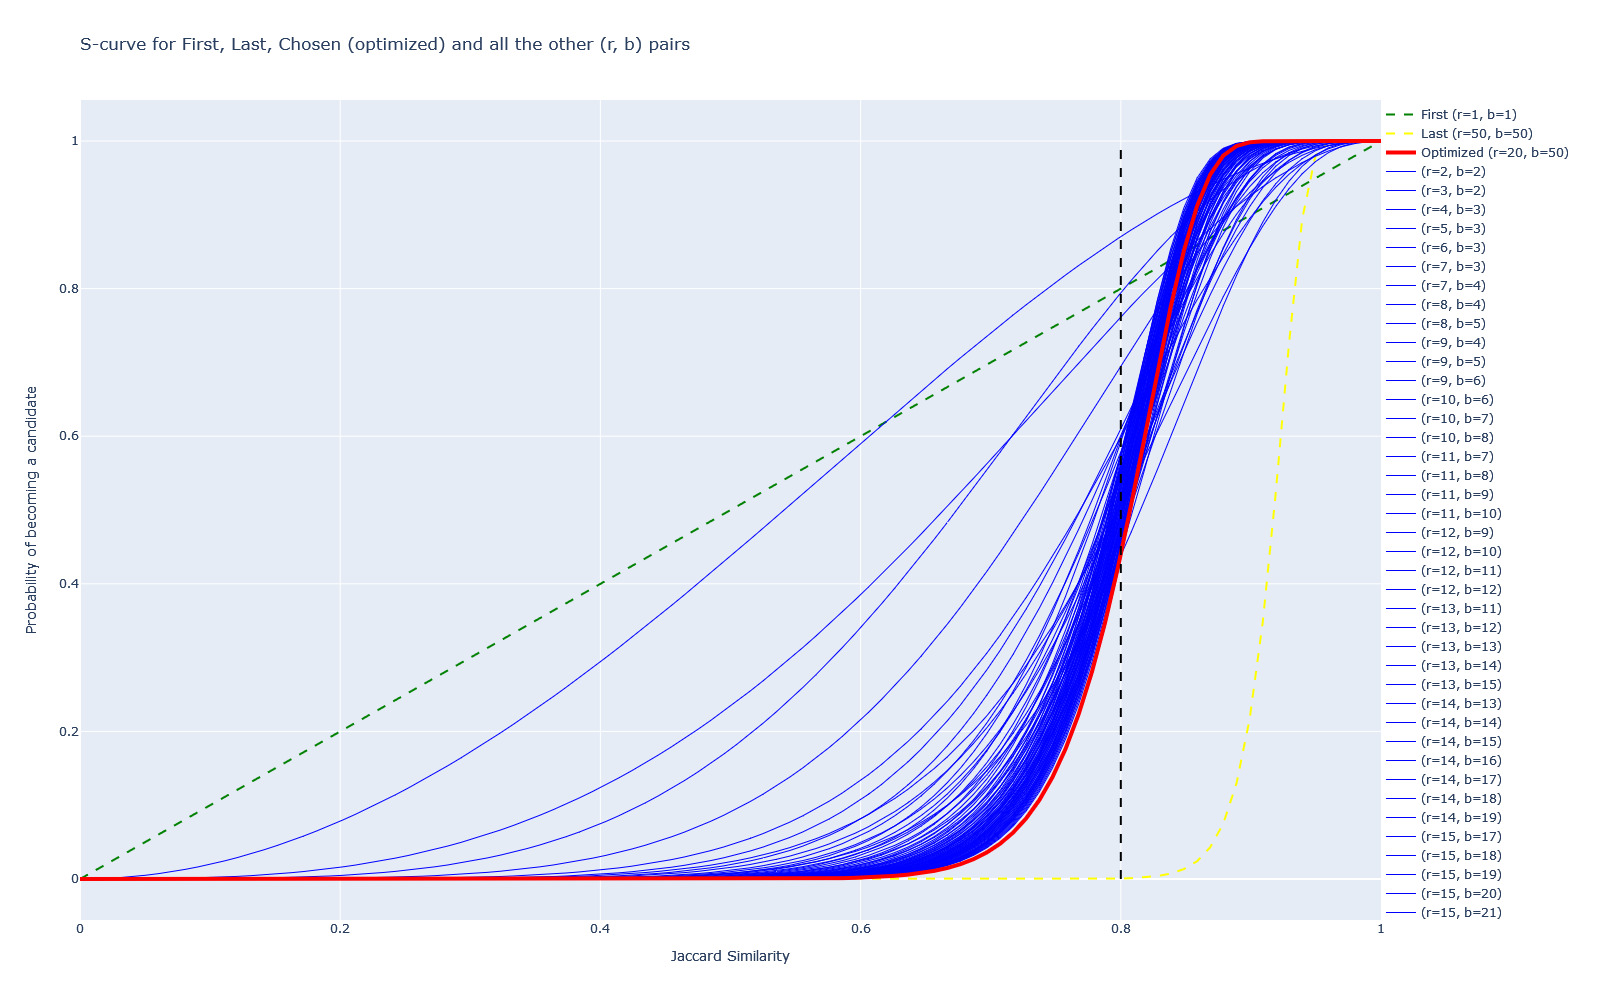
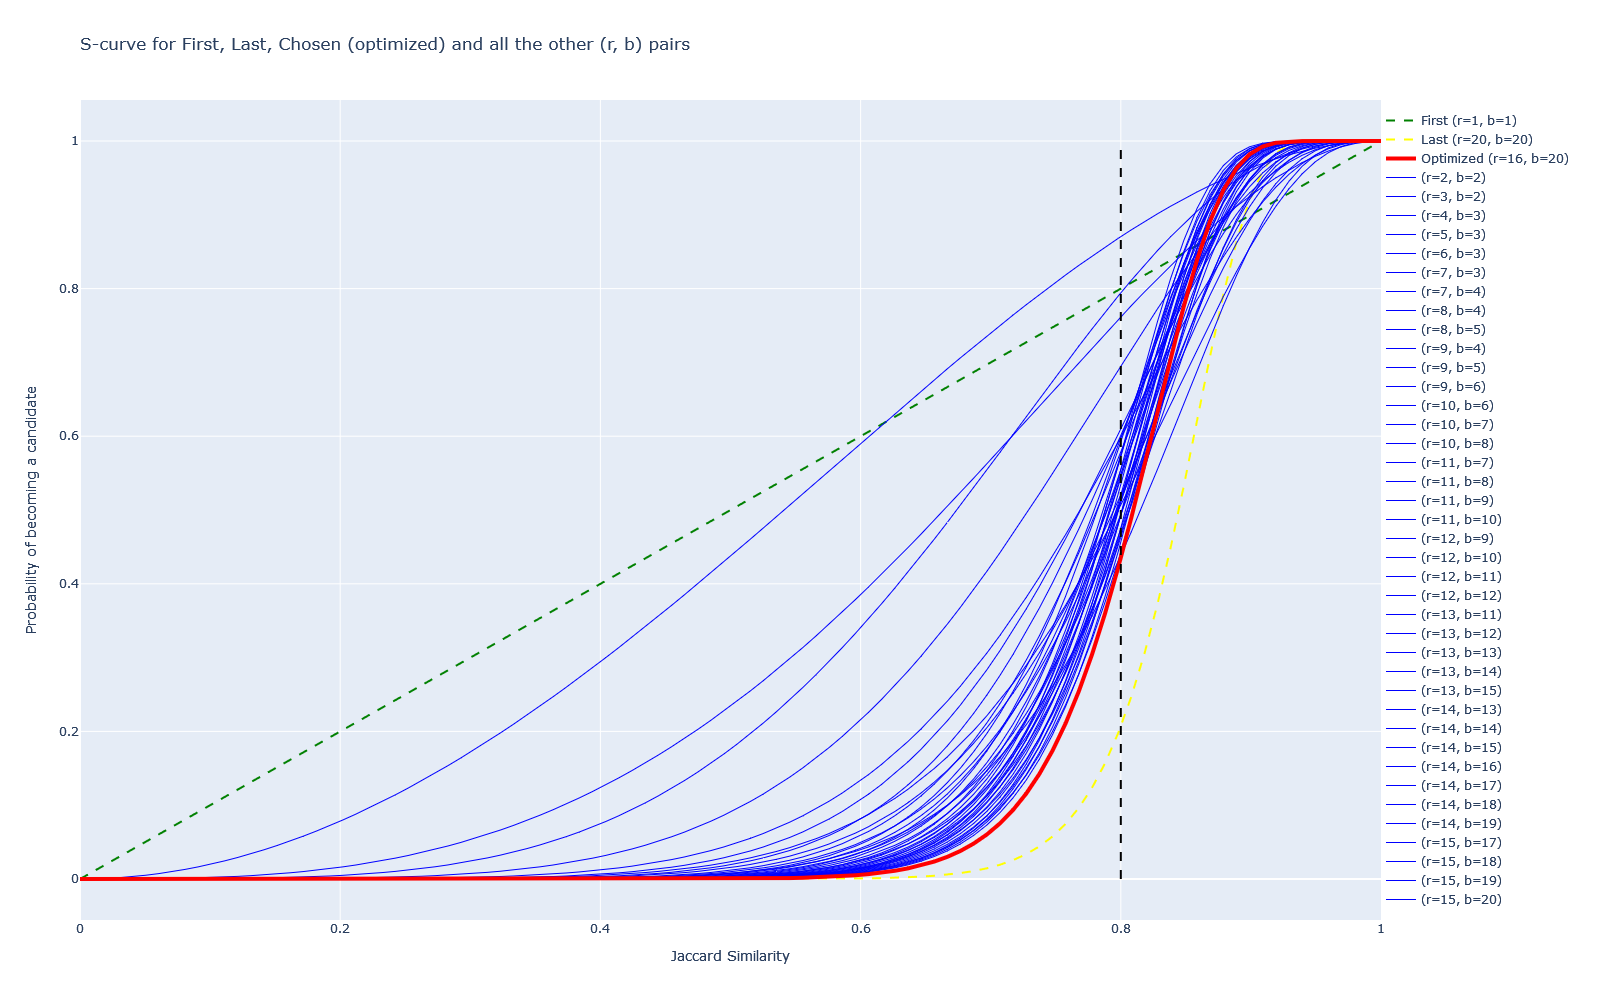
debugs the problem 1 and updates comparison images

Changed region(s): [[0.875, 0.093, 0.9688, 0.93], [0.5, 0.124, 0.8125, 0.899]]

diff --git a/main_text_similarity.py b/main_text_similarity.py
@@ -3,6 +3,7 @@ import os
 import time
 
 import numpy as np
+import pandas as pd
 
 from text_similarity.lsh import LSH
 from text_similarity.minwise_hash_signatures import MinwiseHashSignature
@@ -32,8 +33,9 @@ def parse_arguments():
                         help="Output file path for near duplicates.")
     parser.add_argument("--tokenize", action="store_true", default=False,
                         help="Flag to tokenize descriptions and return tokenized data.")
-    parser.add_argument("--max_r", type=int, default=10, help="Maximum number of rows for LSH S-curve analysis.")
-    parser.add_argument("--max_b", type=int, default=10, help="Maximum number of bands for LSH S-curve analysis.")
+    parser.add_argument("--max_r", type=int, default=20, help="Maximum number of rows for LSH S-curve analysis.")
+    parser.add_argument("--max_b", type=int, default=20, help="Maximum number of bands for LSH S-curve analysis.")
+    parser.add_argument("--plot", type=int, default=False, help="Plot the comparison charts for the methods")
 
     args = parser.parse_args()
     return args
@@ -57,9 +59,6 @@ def load_or_scrape_data(args):
     print(f"Loading data from {data_path}...")
     df = load_dataset(data_path)
     return df
-
-
-import pandas as pd
 
 
 def dict_to_dataframe(input_dict):
@@ -102,7 +101,7 @@ def perform_lsh_similarity_analysis(shingles_list, args):
     start_time = time.time()
 
     print("Performing parameter tuning with S-curve analysis...")
-    lsh = LSH(num_buckets=10)
+    lsh = LSH(num_buckets=100)
 
     # Optimize (r, b) parameters with S-curve analysis
     jaccard_values = np.linspace(0, 1, 100)
@@ -135,7 +134,7 @@ def perform_lsh_similarity_analysis(shingles_list, args):
     candidates_dict = lsh.find_near_duplicates(signatures, threshold=args.threshold)
 
     candidates_df = dict_to_dataframe(candidates_dict)
-    # Save results
+
     output_file = os.path.join(os.path.dirname(args.output), "near_duplicates_lsh.csv")
     save_results(args, candidates_df, output_file)
 
@@ -161,14 +160,11 @@ def perform_naive_similarity_analysis(shingles_list, processed_data, args):
     """
     start_time = time.time()
 
-    # Prepare descriptions based on tokenization
     descriptions = [" ".join(desc) for desc in processed_data] if args.tokenize else processed_data
 
-    # Initialize ShingleComparison
     shingle_comparison = ShingleComparison(threshold=args.threshold, shingle_length=args.k)
     shingle_comparison.compare_shingle_sets(shingles_list, descriptions)
 
-    # Save results
     output_file = os.path.join(os.path.dirname(args.output), "near_duplicates_naive.csv")
     save_results(args, shingle_comparison, output_file)
 
@@ -193,11 +189,9 @@ def perform_datasketch_similarity_analysis(shingles_list, args):
     """
     start_time = time.time()
 
-    # Initialize DataSketch LSH
-    lsh = DataSketchLSH(threshold=args.threshold, num_perm=1000)
+    lsh = DataSketchLSH(threshold=args.threshold, num_perm=320)
     lsh.add_shingles_list(shingles_list)
 
-    # Save results
     output_file = os.path.join(os.path.dirname(args.output), "near_duplicates_data_sketch.csv")
     num_duplicates, results_df = lsh.find_near_duplicates(args)
 
@@ -227,42 +221,45 @@ def main():
     print("\nStep 3. Performing similarity analysis using DataSketch...")
     datasketch_df = perform_datasketch_similarity_analysis(shingles_list, args)
 
-    # Evaluate methods
-    metrics = evaluate_methods(naive_df, lsh_df, datasketch_df)
+    if args.plot:
+        # Evaluate methods
+        metrics = evaluate_methods(naive_df, lsh_df, datasketch_df)
 
-    # Plot metrics
-    plot_metrics(metrics)
+        # Plot metrics
+        plot_metrics(metrics)
 
-    # Plot Venn diagrams
-    naive_pairs = set(naive_df[["Document 1 Index", "Document 2 Index"]].itertuples(index=False, name=None))
-    lsh_pairs = set(lsh_df[["Document 1 Index", "Document 2 Index"]].itertuples(index=False, name=None))
-    datasketch_pairs = set(datasketch_df[["Document 1 Index", "Document 2 Index"]].itertuples(index=False, name=None))
+        # Plot Venn diagrams
+        naive_pairs = set(naive_df[["Document 1 Index", "Document 2 Index"]].itertuples(index=False, name=None))
+        lsh_pairs = set(lsh_df[["Document 1 Index", "Document 2 Index"]].itertuples(index=False, name=None))
+        datasketch_pairs = set(
+            datasketch_df[["Document 1 Index", "Document 2 Index"]].itertuples(index=False, name=None))
 
-    plot_venn_diagram(naive_pairs, lsh_pairs, "LSH")
-    plot_venn_diagram(naive_pairs, datasketch_pairs, "DataSketch")
+        plot_venn_diagram(naive_pairs, lsh_pairs, "LSH")
+        plot_venn_diagram(naive_pairs, datasketch_pairs, "DataSketch")
 
-    plot_heatmap(datasketch_df=datasketch_df, naive_df=naive_df, lsh_df=lsh_df)
+        plot_heatmap(datasketch_df=datasketch_df, naive_df=naive_df, lsh_df=lsh_df)
 
-    plot_cumulative_distribution(
-        [naive_df, lsh_df, datasketch_df],
-        labels=["Naïve (brute-force)", "LSH", "DataSketch"],
-        title="Cumulative Distribution of Jaccard Similarities"
-    )
+        plot_cumulative_distribution(
+            [naive_df, lsh_df, datasketch_df],
+            labels=["Naïve (brute-force)", "LSH", "DataSketch"],
+            title="Cumulative Distribution of Jaccard Similarities"
+        )
 
-    plot_precision_recall(metrics)
+        plot_precision_recall(metrics)
 
-    plot_similarity_distribution(
-        [naive_df, lsh_df, datasketch_df],
-        labels=["Naïve (brute-force)", "LSH", "DataSketch"],
-        bins=20,
-        title="Jaccard Similarity Distribution Across Methods"
-    )
+        plot_similarity_distribution(
+            [naive_df, lsh_df, datasketch_df],
+            labels=["Naïve (brute-force)", "LSH", "DataSketch"],
+            bins=20,
+            title="Jaccard Similarity Distribution Across Methods"
+        )
 
-    plot_similarity_boxplot(
-        [naive_df, lsh_df, datasketch_df],
-        labels=["Naïve (brute-force)", "LSH", "DataSketch"],
-        title="Jaccard Similarity Box Plot"
-    )
+        plot_similarity_boxplot(
+            [naive_df, lsh_df, datasketch_df],
+            labels=["Naïve (brute-force)", "LSH", "DataSketch"],
+            title="Jaccard Similarity Box Plot"
+        )
+
 
 if __name__ == "__main__":
     main()

diff --git a/text_similarity/text_processing/data_sketch_lsh.py b/text_similarity/text_processing/data_sketch_lsh.py
@@ -35,7 +35,7 @@ class DataSketchLSH:
                     minhash.update(shingle.encode('utf-8'))
                 self.minhashes.append(minhash)
                 self.lsh.insert(f"doc_{i}", minhash)
-                progress_bar.update(1)  # Update the progress bar after each iteration
+                progress_bar.update(1)
 
     def find_near_duplicates(self, args):
         """
@@ -45,19 +45,17 @@ class DataSketchLSH:
             args (argparse.Namespace): Command-line arguments containing output file path and other settings.
 
         Returns:
-            None
+            int: The number of filtered near-duplicate pairs.
+            pd.DataFrame: A DataFrame containing the filtered near-duplicate pairs.
         """
         results = []
 
         for i, doc_minhash in enumerate(self.minhashes):
-            # Query LSH for candidates
             candidates = self.lsh.query(doc_minhash)
             for candidate in candidates:
-                # Avoid self-comparison
                 if candidate == f"doc_{i}":
                     continue
 
-                # Calculate Jaccard similarity
                 candidate_index = int(candidate.split("_")[1])
                 jaccard_sim = doc_minhash.jaccard(self.minhashes[candidate_index])
 
@@ -65,15 +63,13 @@ class DataSketchLSH:
                 results.append(
                     {"Document 1 Index": i, "Document 2 Index": candidate_index, "Jaccard Similarity": jaccard_sim})
 
-        # Convert results to a DataFrame
         results_df = pd.DataFrame(results)
 
-        # Construct output file name
+        filtered_results_df = results_df.loc[results_df["Jaccard Similarity"] >= args.threshold]
+
         output_file = os.path.join(os.path.dirname(args.output), "near_duplicates_data_sketch.csv")
 
-        # Save results
         output_file_with_timestamp = f"{output_file.rsplit('.', 1)[0]}.csv"
+        filtered_results_df.to_csv(output_file_with_timestamp, index=False)
 
-        results_df.to_csv(output_file_with_timestamp, index=False)
-
-        return len(results), results_df
+        return len(filtered_results_df), filtered_results_df

diff --git a/text_similarity/shingle_comparison.py b/text_similarity/shingle_comparison.py
@@ -53,30 +53,25 @@ class ShingleComparison:
         # Total comparisons: n * (n - 1) / 2 (triangular loop)
         num_comparisons = len(shingles) * (len(shingles) - 1) // 2
 
-        # Use tqdm to display progress
         with tqdm(total=num_comparisons, desc="Comparing shingles") as progress_bar:
             for i, shingle_set1 in enumerate(shingles):
                 for j, shingle_set2 in enumerate(shingles[i + 1:]):
-                    # Ensure shingle_set1 and shingle_set2 are sets
+
                     if not isinstance(shingle_set1, set):
                         shingle_set1 = set(shingle_set1)
                     if not isinstance(shingle_set2, set):
                         shingle_set2 = set(shingle_set2)
 
-                    # Compute Jaccard similarity
                     jaccard_sim = jaccard_similarity(shingle_set1, shingle_set2)
                     jaccard_values.append(jaccard_sim)
 
-                    # Check threshold for near-duplicates
                     if jaccard_sim >= self.threshold:
                         near_duplicates.append((i, i + 1 + j, round(jaccard_sim, 2)))
 
-                    # Update the progress bar
                     progress_bar.update(1)
 
         end_time = time.time()
         self.elapsed_time = end_time - start_time
         self.jaccard_values = jaccard_values
 
-        # Create a DataFrame from the list of near-duplicates
         self.df = pd.DataFrame(near_duplicates, columns=['Document 1 Index', 'Document 2 Index', 'Jaccard Similarity'])

diff --git a/text_similarity/lsh.py b/text_similarity/lsh.py
@@ -64,7 +64,6 @@ class LSH:
 
             for candidate_idx in candidate_indices:
                 if query_idx != candidate_idx:  # Avoid self-comparison
-                    # Calculate Jaccard similarity
                     jaccard_sim = self._calculate_jaccard_similarity(
                         signatures[:, query_idx], signatures[:, candidate_idx]
                     )
